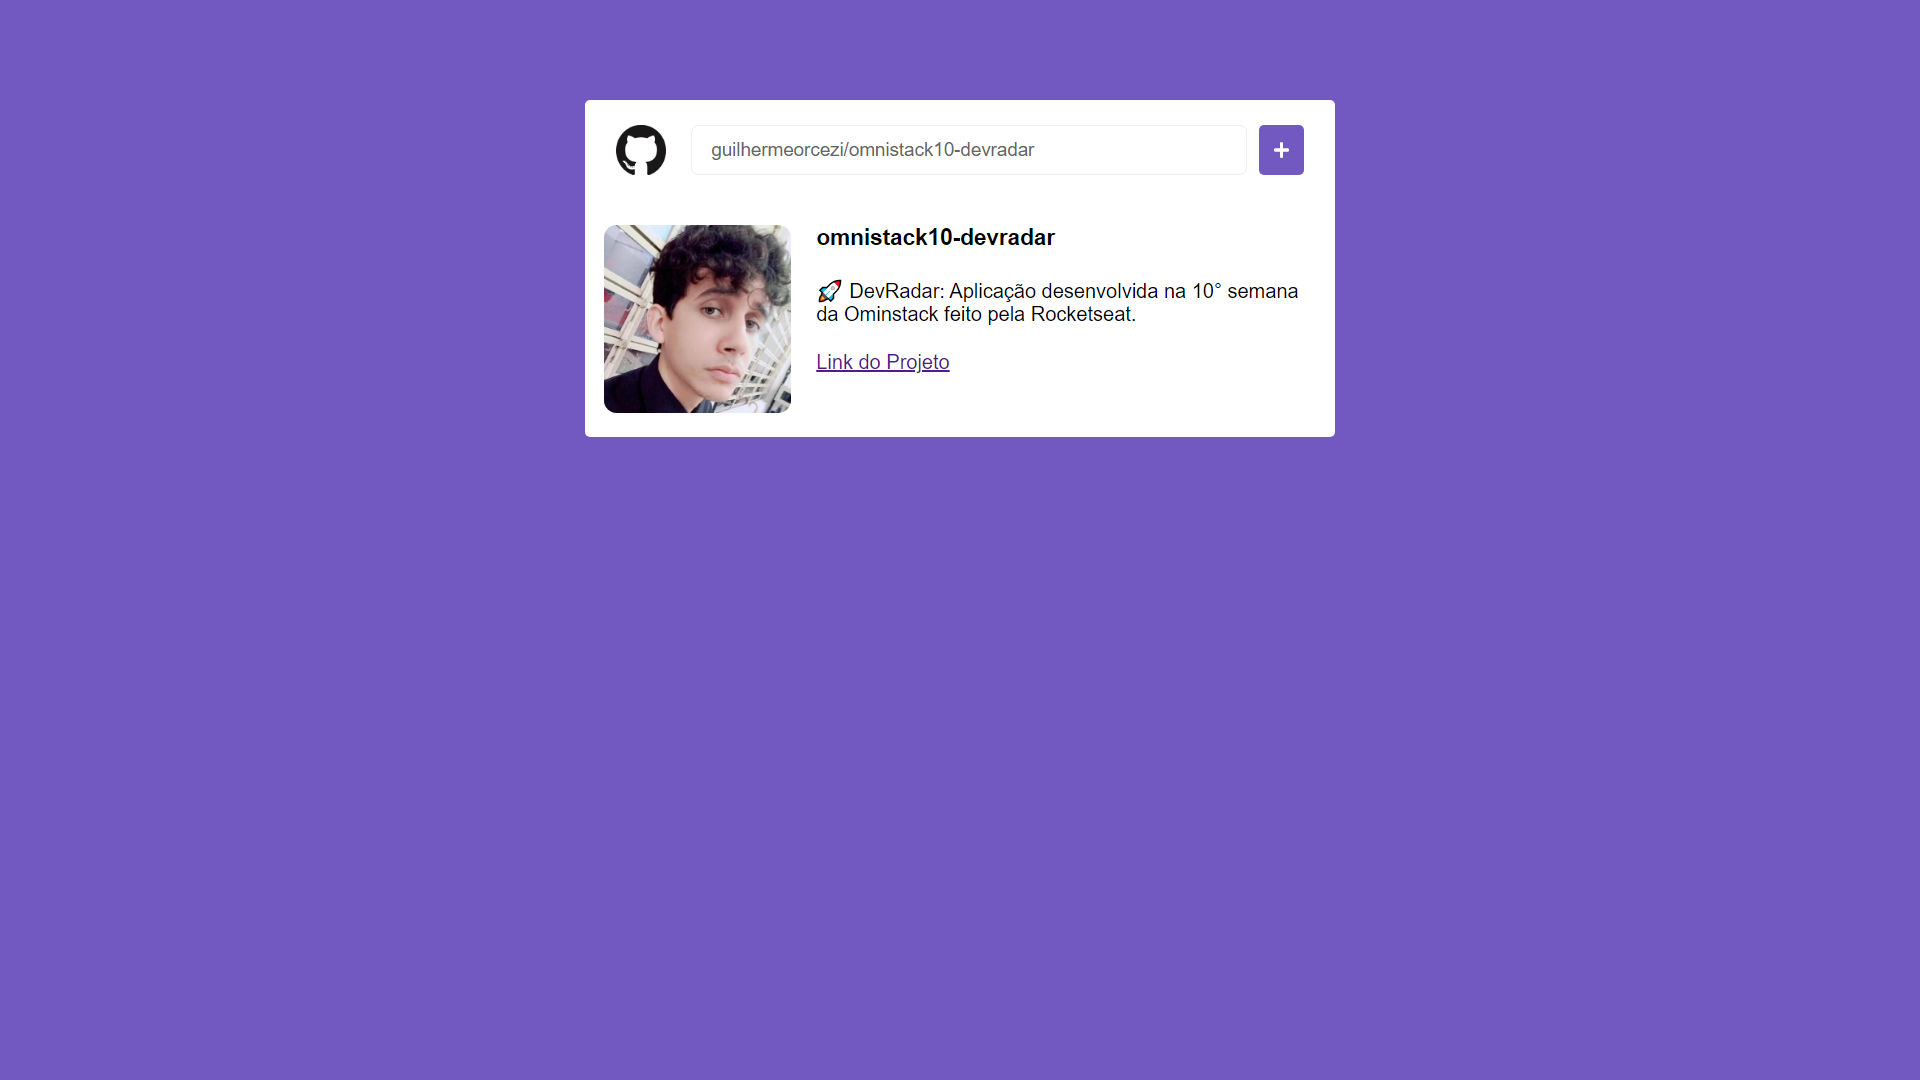
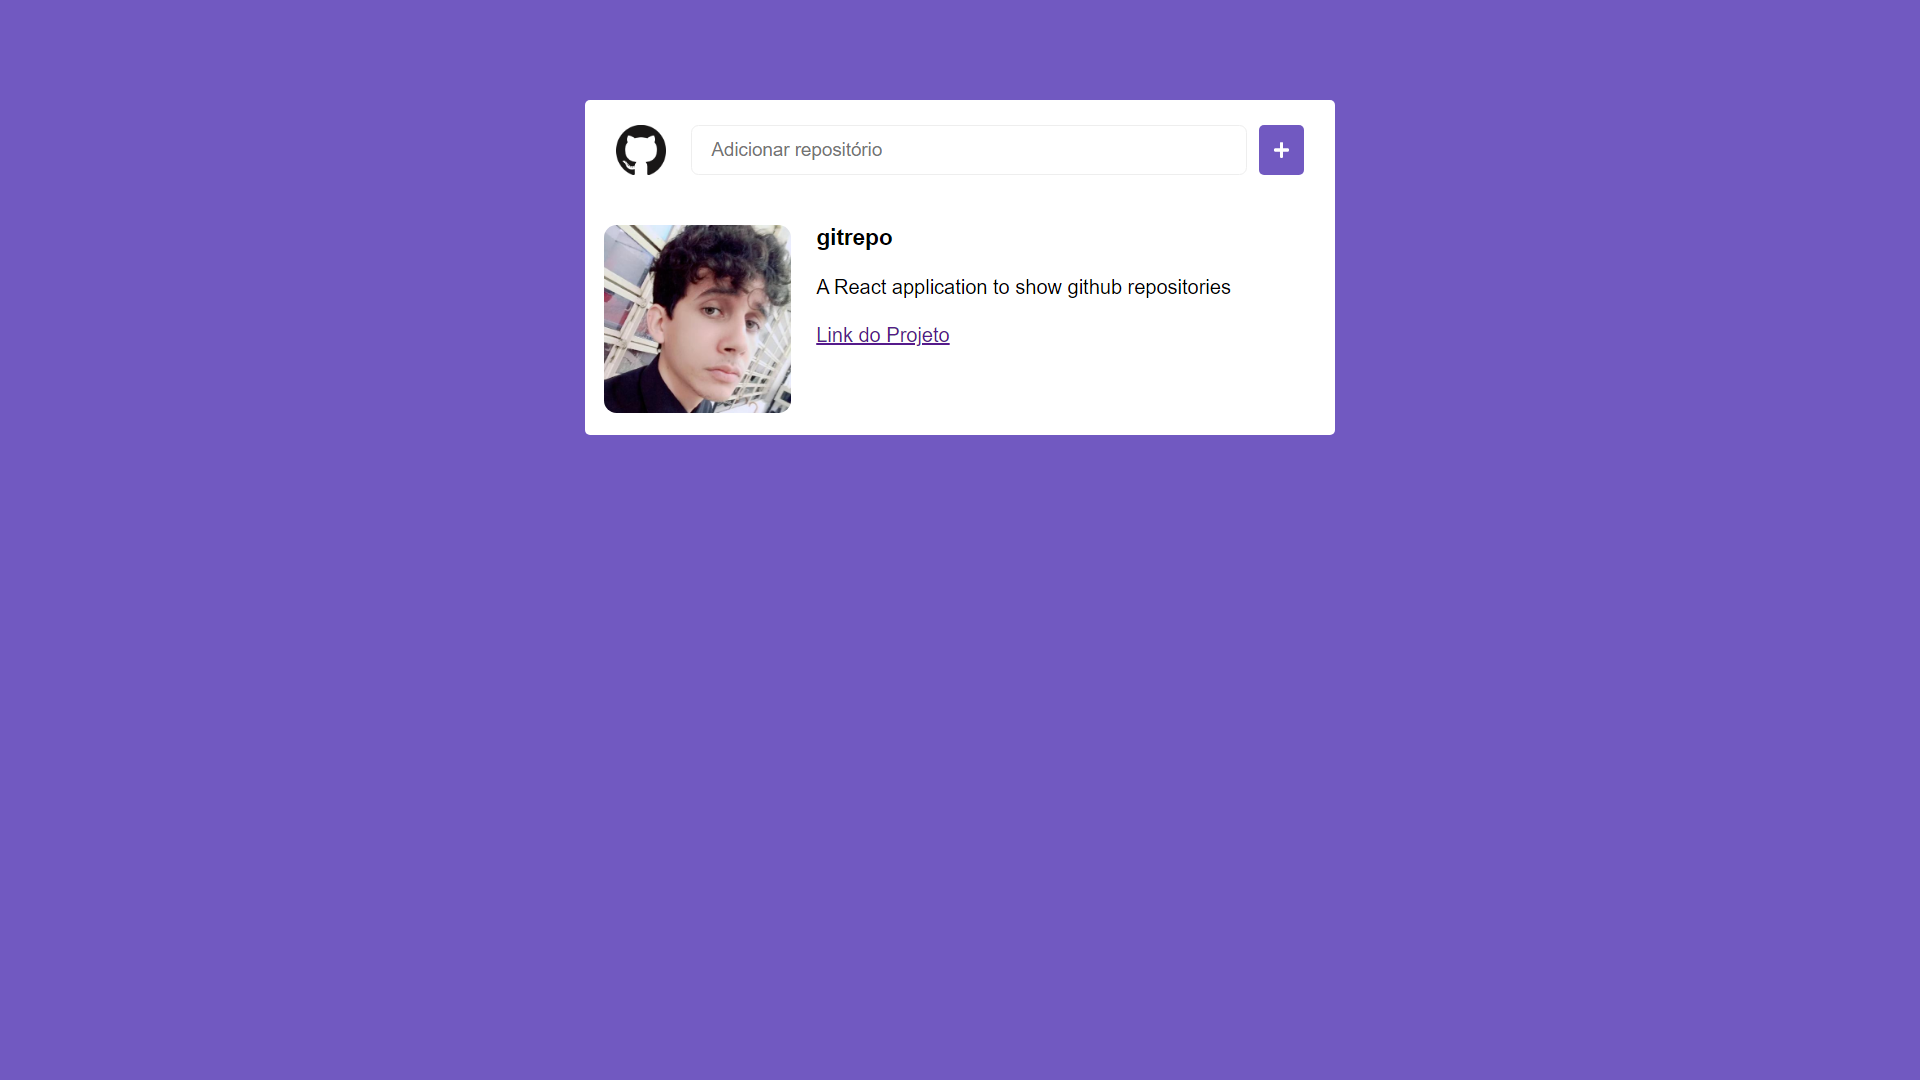
static file updated

Changed region(s): [[0.4062, 0.2139, 0.6875, 0.3667], [0.375, 0.1222, 0.5312, 0.1528]]

diff --git a/src/Components/Container/Container.js b/src/Components/Container/Container.js
@@ -6,7 +6,7 @@ const Container = styled.div`
     margin: 80px auto;
     background-color: #fff;
     border-radius: 4px;
-    padding-bottom:50px;
+    padding-bottom:70px;
 `;
 
 export default Container;

diff --git a/src/pages/main/Main.js b/src/pages/main/Main.js
@@ -24,6 +24,8 @@ export default function Main() {
 			...repo,
 			{ name, description, avatar_url, html_url, _id: repo.length }
 		]);
+
+		setNewRepo('');
 	}
 
 	return (
